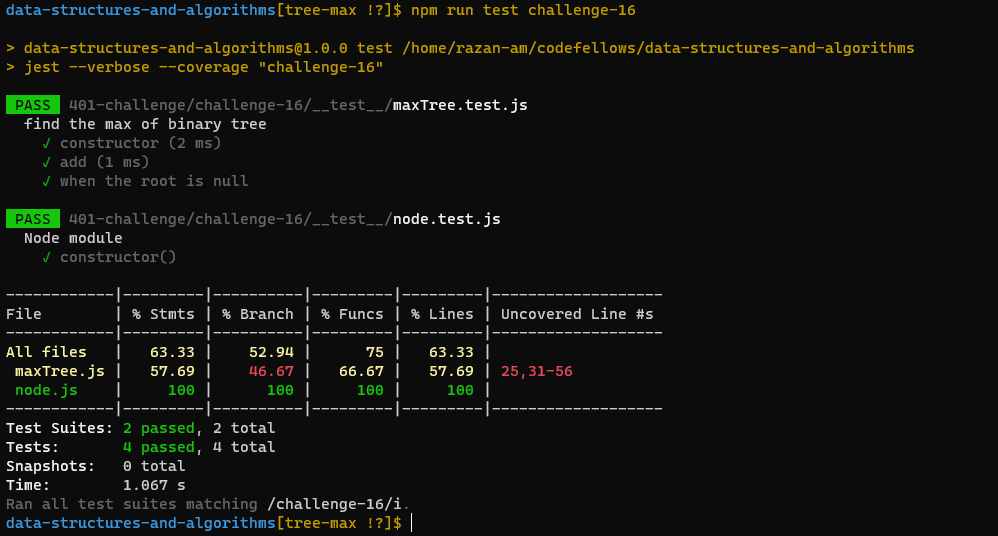
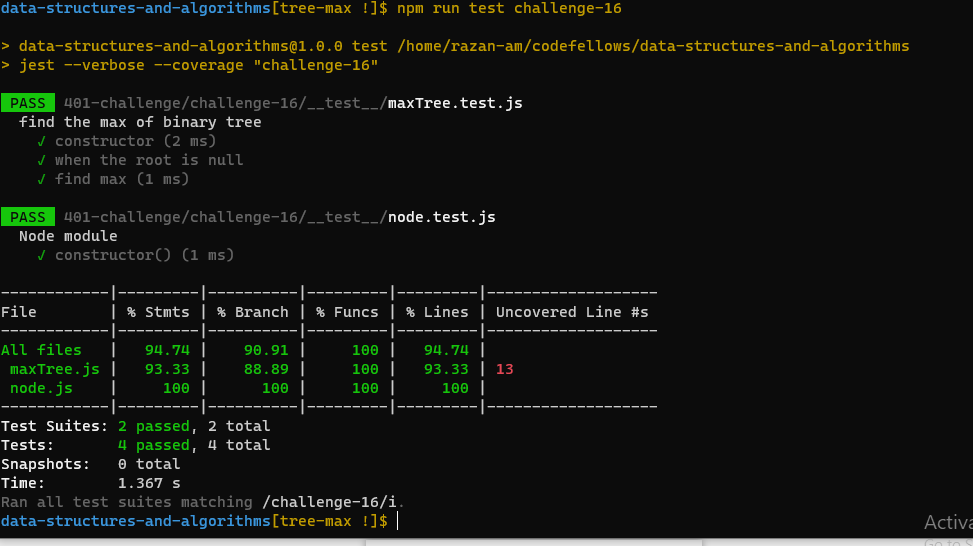
fix

Changed region(s): [[0.0, 0.0597, 1.0, 1.0], [0.0, 0.0, 0.6475, 0.0299]]

diff --git a/coverage/lcov-report/index.html b/coverage/lcov-report/index.html
@@ -23,30 +23,30 @@
         <div class='clearfix'>
             
             <div class='fl pad1y space-right2'>
-                <span class="strong">63.33% </span>
+                <span class="strong">94.74% </span>
                 <span class="quiet">Statements</span>
-                <span class='fraction'>19/30</span>
+                <span class='fraction'>18/19</span>
             </div>
         
             
             <div class='fl pad1y space-right2'>
-                <span class="strong">52.94% </span>
+                <span class="strong">90.91% </span>
                 <span class="quiet">Branches</span>
-                <span class='fraction'>9/17</span>
+                <span class='fraction'>10/11</span>
             </div>
         
             
             <div class='fl pad1y space-right2'>
-                <span class="strong">75% </span>
+                <span class="strong">100% </span>
                 <span class="quiet">Functions</span>
-                <span class='fraction'>3/4</span>
+                <span class='fraction'>4/4</span>
             </div>
         
             
             <div class='fl pad1y space-right2'>
-                <span class="strong">63.33% </span>
+                <span class="strong">94.74% </span>
                 <span class="quiet">Lines</span>
-                <span class='fraction'>19/30</span>
+                <span class='fraction'>18/19</span>
             </div>
         
             
@@ -55,7 +55,7 @@
             Press <em>n</em> or <em>j</em> to go to the next uncovered block, <em>b</em>, <em>p</em> or <em>k</em> for the previous block.
         </p>
     </div>
-    <div class='status-line medium'></div>
+    <div class='status-line high'></div>
     <div class="pad1">
 <table class="coverage-summary">
 <thead>
@@ -73,18 +73,18 @@
 </tr>
 </thead>
 <tbody><tr>
-	<td class="file medium" data-value="maxTree.js"><a href="maxTree.js.html">maxTree.js</a></td>
-	<td data-value="57.69" class="pic medium">
-	<div class="chart"><div class="cover-fill" style="width: 57%"></div><div class="cover-empty" style="width: 43%"></div></div>
+	<td class="file high" data-value="maxTree.js"><a href="maxTree.js.html">maxTree.js</a></td>
+	<td data-value="93.33" class="pic high">
+	<div class="chart"><div class="cover-fill" style="width: 93%"></div><div class="cover-empty" style="width: 7%"></div></div>
 	</td>
-	<td data-value="57.69" class="pct medium">57.69%</td>
-	<td data-value="26" class="abs medium">15/26</td>
-	<td data-value="46.67" class="pct low">46.67%</td>
-	<td data-value="15" class="abs low">7/15</td>
-	<td data-value="66.67" class="pct medium">66.67%</td>
-	<td data-value="3" class="abs medium">2/3</td>
-	<td data-value="57.69" class="pct medium">57.69%</td>
-	<td data-value="26" class="abs medium">15/26</td>
+	<td data-value="93.33" class="pct high">93.33%</td>
+	<td data-value="15" class="abs high">14/15</td>
+	<td data-value="88.89" class="pct high">88.89%</td>
+	<td data-value="9" class="abs high">8/9</td>
+	<td data-value="100" class="pct high">100%</td>
+	<td data-value="3" class="abs high">3/3</td>
+	<td data-value="93.33" class="pct high">93.33%</td>
+	<td data-value="15" class="abs high">14/15</td>
 	</tr>
 
 <tr>
@@ -110,7 +110,7 @@
             <div class='footer quiet pad2 space-top1 center small'>
                 Code coverage generated by
                 <a href="https://istanbul.js.org/" target="_blank">istanbul</a>
-                at Sun Aug 29 2021 14:54:44 GMT+0300 (Eastern European Summer Time)
+                at Wed Sep 01 2021 18:37:38 GMT+0300 (Eastern European Summer Time)
             </div>
         </div>
         <script src="prettify.js"></script>

diff --git a/401-challenge/challenge-16/maxTree.js b/401-challenge/challenge-16/maxTree.js
@@ -7,54 +7,26 @@ class BinaryTree{
         this.root = root;
     }
 
-    
-    add(value){
-
-        let newNode = new Node(value);
-
-        if(this.root === null){
-            this.root = newNode;
-            return
-        }else{
-            while (this.root !== null) {
-                if(this.root.value > value){
-                    if(this.root.left === null){
-                        this.root.left = newNode;
-                        return
-                    }
-                    this.root = this.root.left
-                }else{
-                    if(this.root.right === null){
-                        this.root.right = newNode;
-                        return;
-                    }
-                    this.root = this.root.right;
-                }
-            }
-        }
-    }
-
     maxValue(){
 
         if(this.root === null){
             console.log('tree is empty');
-        }else{
-            let max;
-            let leftMax;
-            let RightMax;
-
-            if (this.root.left != null) {
-                leftMax = this.maxValue(this.root.left);
-                max = Math.max(max,leftMax)
-            }
-
-            if (this.root.right != null) {
-                RightMax = this.maxValue(this.root.right);
-                max = Math.max(max , RightMax);
-            }
-
-            return max;
         }
+
+        let max =this.root.value;
+        let maxNumber = (node) =>{
+            if(node.left){
+                maxNumber(node.left);
+            }
+            if (node.right) {
+                maxNumber(node.right);
+            }
+            if (node.value > max) {
+                max = node.value;
+            }
+        }
+        maxNumber(this.root);
+        return max;
     }
 }
 module.exports = BinaryTree;

diff --git a/401-challenge/challenge-16/__test__/maxTree.test.js b/401-challenge/challenge-16/__test__/maxTree.test.js
@@ -35,28 +35,14 @@ describe('find the max of binary tree',()=>{
         expect(newTree.root).toBeNull();
         expect(tree.root.value).toEqual(1);
     });
-
-    it('add',()=>{
-        const newTree = new BinaryTree();
-        newTree.add(10);
-        newTree.add(2);
-        newTree.add(17);
-        expect(newTree.root.value).toEqual(10)
-    })
-
-
-    // it('find the max',()=>{
-    //     const newTree = new BinaryTree();
-    //     newTree.add(10);
-    //     newTree.add(2);
-    //     newTree.add(17);
-    //     expect(newTree.maxValue(newTree)).toEqual(17)
-    // })
-
     
     it('when the root is null',()=>{
-        let max = 9;
         const newTree = new BinaryTree();
         expect(newTree.root).toEqual(null);
+    })
+
+    it('find max',()=>{
+        const expectedValue = 9;
+        expect(tree.maxValue()).toEqual(expectedValue)
     })
 })
